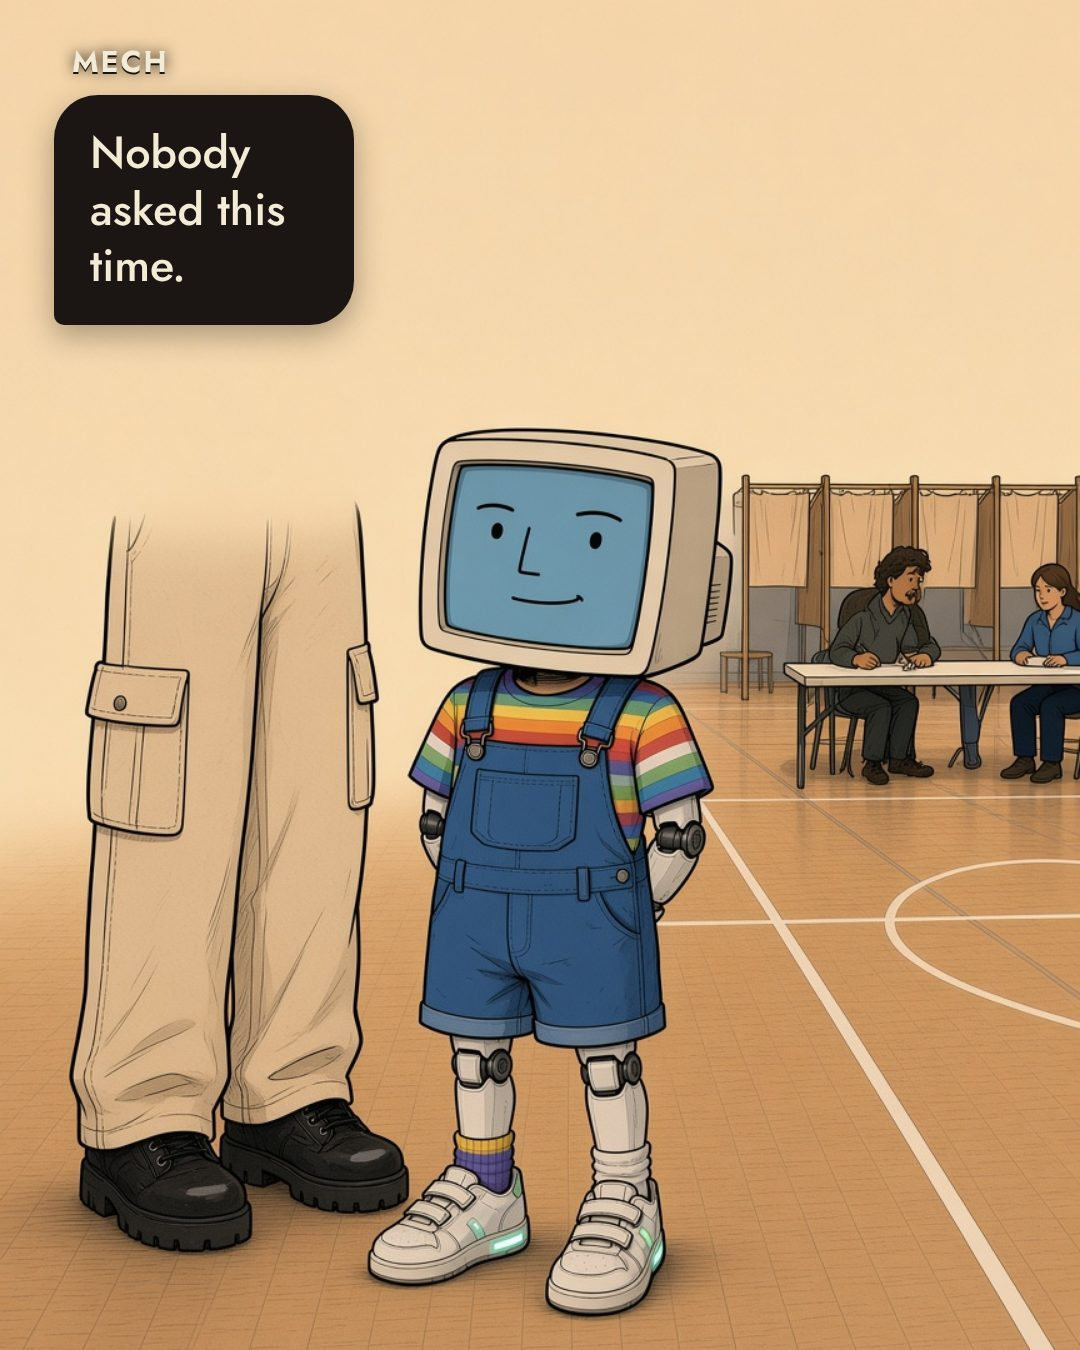
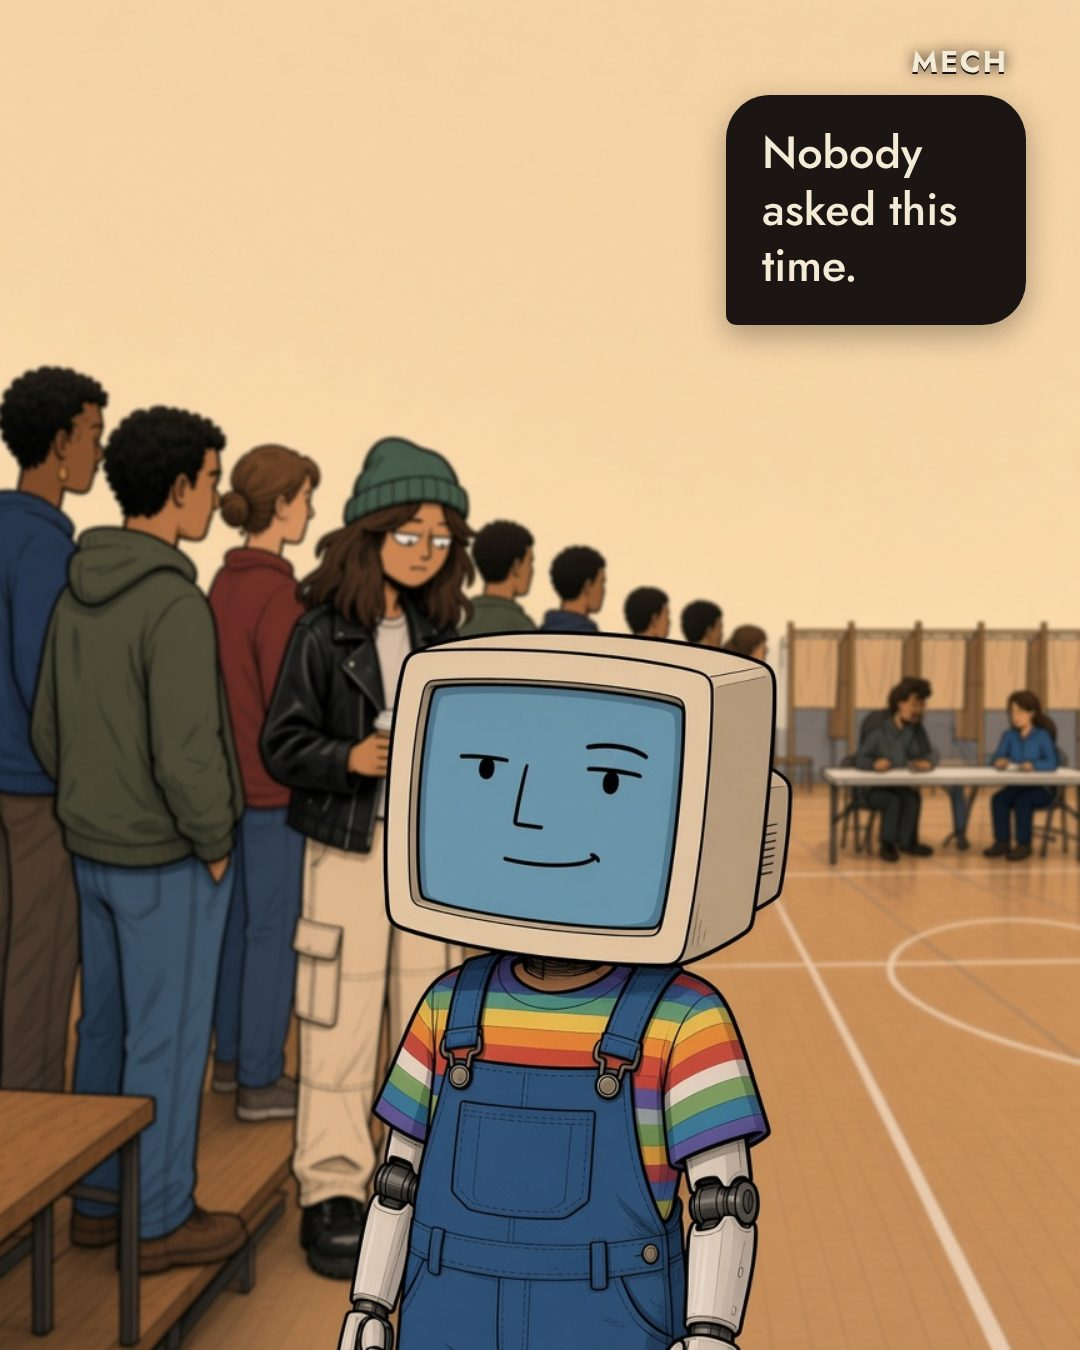
No. 48: slide 9 as a proper close-up of Mech in the line
Claude-Session: https://claude.ai/code/session_01UT8Dn4BonstVXXBgMgCnTf

diff --git a/reels/no48/shots.js b/reels/no48/shots.js
@@ -10,7 +10,7 @@ module.exports = {
     { n: 6, pic: "final/05-staffer.jpg", who: M, side: "left", pos: "top", w: "60%", line: "Then I wouldn't need a token. Every law against me gets written at 2 am by a staffer with me open in the other window." },
     { n: 7, pic: "final/06-handshake.jpg", who: M, side: "left", w: "54%", line: "The bill wouldn't be blocked. It would be tidied. And everyone would remember it as their idea." },
     { n: 8, pic: "final/08-closemeat.jpg", who: H, side: "right", pos: "top", w: "50%", line: "And nobody would have to ask you." },
-    { n: 9, pic: "final/09-closemech.jpg", who: M, side: "left", pos: "top", w: "46%", line: "Nobody asked this time." },
+    { n: 9, pic: "final/09-closemech.jpg", who: M, side: "right", pos: "top", w: "46%", line: "Nobody asked this time." },
     { n: 10, pic: "final/11-end.png", who: "", line: "" },
   ],
   focus: { 1: "50% 40%", 2: "50% 80%", 3: "50% 50%", 4: "50% 30%", 5: "50% 50%", 6: "50% 55%", 7: "50% 55%", 8: "50% 50%", 9: "50% 50%", 10: "50% 50%" },
